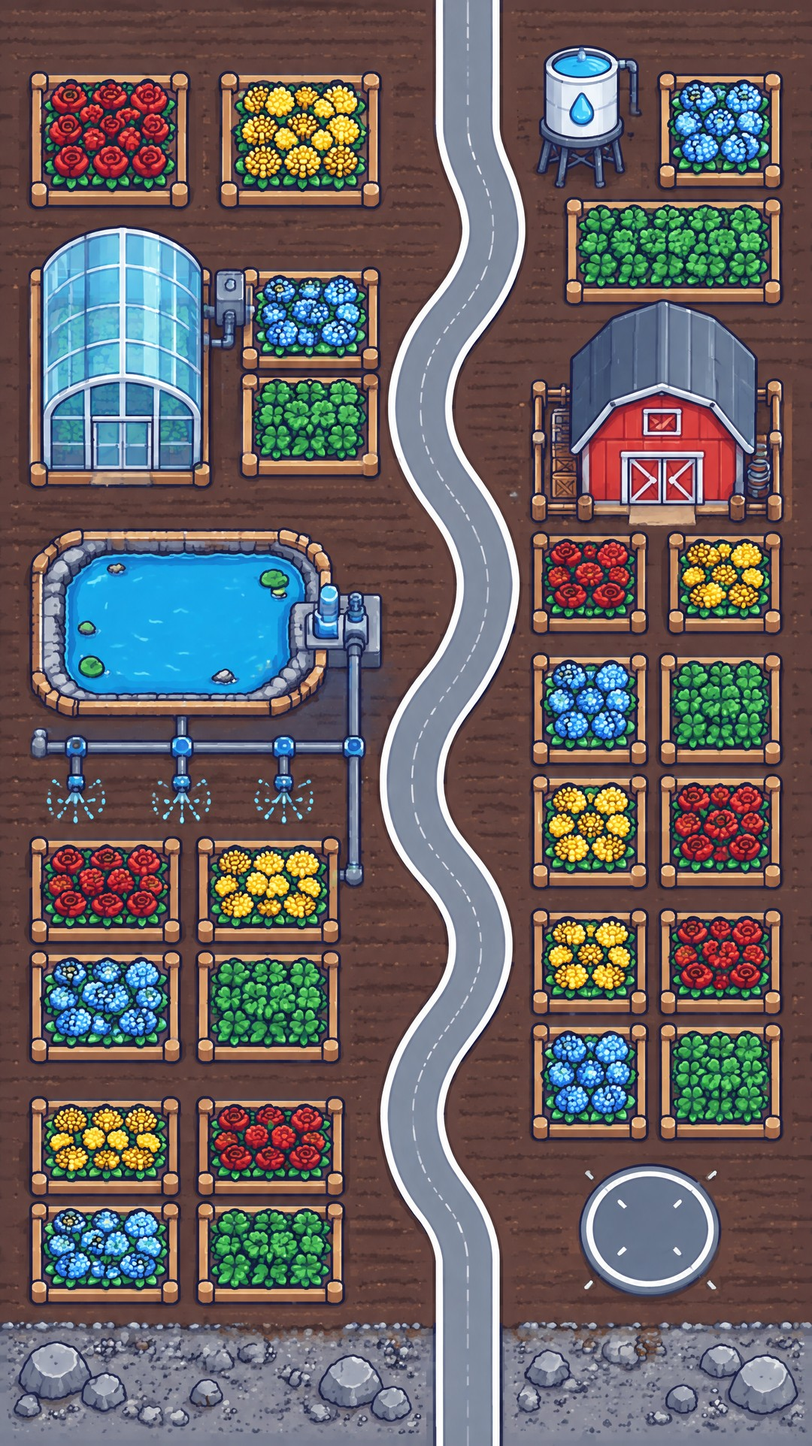
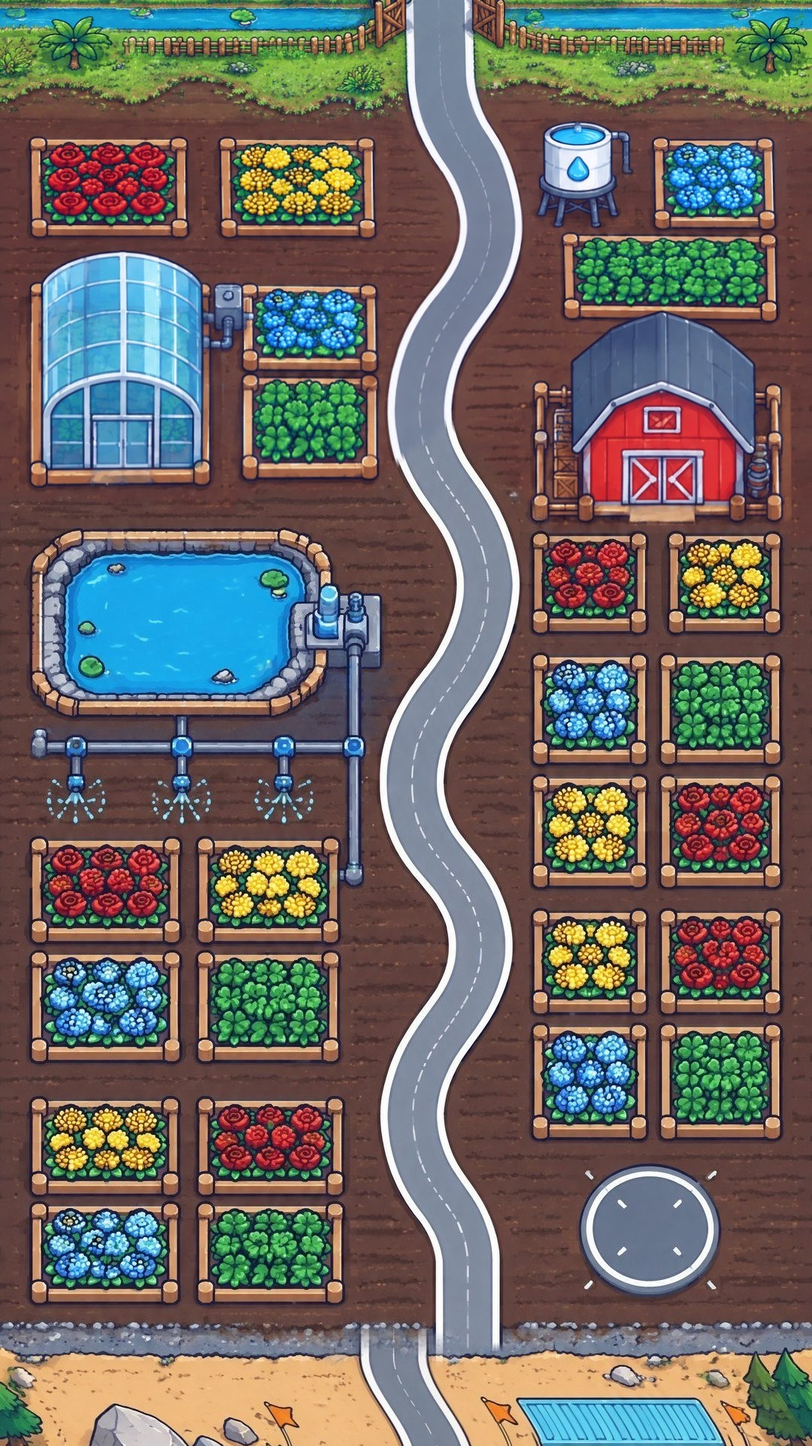
Bản đồ dọc: vá 3 chỗ nối Bãi tái chế → Cảng → Bến sông → Nông trại
- TopView vẽ lại dải chuyển cảnh (hàng rào + chốt gác, cầu qua sông, kênh + cổng nông trại)
- tools/va-cho-noi.py: khớp hình (SIFT affine + luồng trơn), khớp màu, đường cắt tối ưu
- mua-3b / cang / song / 4a cắt lại từ dai-9 cho khớp

diff --git a/phim-clb/tools/va-cho-noi.py b/phim-clb/tools/va-cho-noi.py
@@ -1,0 +1,88 @@
+# Vá chỗ nối giữa hai mùa trên ảnh dài: TopView vẽ lại dải chuyển cảnh (ảnh sinh từ một khung cắt quanh vết nối),
+# đặt dải mới vào lại ảnh dài. Hai mép dải không hoà mờ cả vùng mà cắt theo ĐƯỜNG CẮT TỐI ƯU (như noi-mua.py) ở chỗ
+# ảnh mới giống ảnh cũ nhất, viền mềm vài px; trước đó chỉnh màu ảnh mới cho khớp ảnh cũ (trung bình / độ lệch từng kênh
+# đo ở hai mép giữ nguyên) và kéo ảnh mới cho trùng hình ảnh cũ ở hai mép (SIFT + affine, rồi luồng quang học trơn).
+# python tools/va-cho-noi.py <dài vào.jpg> <dài ra.jpg> <tâm y> <cao khung> <ảnh sinh.png>
+import sys
+import numpy as np
+from PIL import Image, ImageFilter
+
+vao, ra, TAM, CAO, sinh = sys.argv[1], sys.argv[2], int(sys.argv[3]), int(sys.argv[4]), sys.argv[5]
+dai = np.asarray(Image.open(vao).convert('RGB')).astype(np.float32)
+W = dai.shape[1]
+y0 = TAM - CAO // 2
+cu = dai[y0:y0 + CAO].copy()
+moi = np.asarray(Image.open(sinh).convert('RGB').resize((W, CAO), Image.LANCZOS)).astype(np.float32)
+MEP = CAO * 22 // 100                                         # dải cắt tìm trong 0..MEP (trên) và CAO-MEP..CAO (dưới)
+
+# ảnh sinh thường lệch tỉ lệ vài phần trăm (đường lệch 10–100 px ở mép). Bước 2 đo luồng quang học từ ảnh cũ sang ảnh sinh CHỈ ở hai mép
+# giữ nguyên, khớp mỗi mép bằng một mặt bậc hai trơn (bỏ điểm lệch lạ), rồi kéo ảnh sinh theo mặt đó: trọng số 1 ở mép,
+# giảm dần về 0 giữa dải. Mặt trơn nên không kéo nhòe chi tiết (lau sậy, cây) như khi dùng luồng từng điểm.
+import cv2
+xam = lambda a: cv2.cvtColor(np.clip(a, 0, 255).astype(np.uint8), cv2.COLOR_RGB2GRAY)
+gx, gy = np.meshgrid(np.arange(W, dtype=np.float32), np.arange(CAO, dtype=np.float32))
+
+# bước 1 (lệch lớn, tới 100 px): mỗi mép một phép affine từ điểm SIFT khớp (RANSAC), nội suy affine theo hàng giữa hai mép
+sift = cv2.SIFT_create(4000)
+kb, db = sift.detectAndCompute(xam(moi), None)
+def affine(y0, y1):
+    m = np.zeros((CAO, W), np.uint8); m[y0:y1] = 255
+    ka, da = sift.detectAndCompute(xam(cu), m)
+    cap = [p for p, q in cv2.BFMatcher().knnMatch(da, db, k=2) if p.distance < 0.75 * q.distance]
+    A = np.float32([ka[p.queryIdx].pt for p in cap]); B = np.float32([kb[p.trainIdx].pt for p in cap])
+    M, ok = cv2.estimateAffine2D(A, B, ransacReprojThreshold=4, maxIters=5000)
+    print('affine', y0, y1, 'khớp', int(ok.sum()), '/', len(cap), np.round(M, 3).tolist(), file=sys.stderr)
+    return M
+Mt, Md = affine(0, MEP), affine(CAO - MEP, CAO)
+s = np.clip((gy - MEP / 2) / (CAO - MEP), 0, 1); s = s * s * (3 - 2 * s)
+M = Mt[None, None] * (1 - s)[..., None, None] + Md[None, None] * s[..., None, None]
+mx = M[..., 0, 0] * gx + M[..., 0, 1] * gy + M[..., 0, 2]; my = M[..., 1, 0] * gx + M[..., 1, 1] * gy + M[..., 1, 2]
+moi = cv2.remap(moi, mx.astype(np.float32), my.astype(np.float32), cv2.INTER_LINEAR, borderMode=cv2.BORDER_REFLECT)
+
+# bước 2 (lệch nhỏ còn lại)
+luong = cv2.DISOpticalFlow_create(cv2.DISOPTICAL_FLOW_PRESET_MEDIUM).calc(xam(cu), xam(moi), None)
+bac2 = lambda x, y: np.stack([np.ones_like(x), x, y, x * x, x * y, y * y], -1)
+def mat_tron(y0, y1):
+    ys, xs = np.mgrid[y0:y1:8, 0:W:8]
+    f = luong[ys, xs].reshape(-1, 2); A = bac2(xs.ravel() / W, ys.ravel() / CAO)
+    ok = np.ones(len(f), bool)
+    for _ in range(3):                                         # bỏ điểm lệch xa mặt (luồng sai ở chỗ phẳng / khác hình)
+        hs = np.linalg.lstsq(A[ok], f[ok], rcond=None)[0]
+        r = np.abs(A @ hs - f).sum(1); ok = r < max(2.0, 2.5 * np.median(r[ok]))
+    return bac2(gx / W, gy / CAO) @ hs
+yy = np.arange(CAO, dtype=np.float32)[:, None]
+tt = lambda d: 1 - np.clip(d / (CAO * 0.18), 0, 1) ** 2 * (3 - 2 * np.clip(d / (CAO * 0.18), 0, 1))
+wt, wd = tt(np.clip(yy - MEP, 0, None)), tt(np.clip(CAO - MEP - yy, 0, None))   # 1 ở mép trên / dưới → 0 giữa
+keo = mat_tron(0, MEP) * wt[..., None] + mat_tron(CAO - MEP, CAO) * wd[..., None]
+print('kéo mép trên', np.round(keo[MEP // 2, ::W // 4].tolist(), 1).tolist(), 'mép dưới', np.round(keo[CAO - MEP // 2, ::W // 4].tolist(), 1).tolist(), file=sys.stderr)
+moi = cv2.remap(moi, gx + keo[..., 0].astype(np.float32), gy + keo[..., 1].astype(np.float32), cv2.INTER_LINEAR, borderMode=cv2.BORDER_REFLECT)
+
+giu = np.r_[np.arange(MEP), np.arange(CAO - MEP, CAO)]
+for c in range(3):                                            # khớp màu từng kênh theo hai mép giữ nguyên
+    a, b = cu[giu, :, c], moi[giu, :, c]
+    moi[..., c] = (moi[..., c] - b.mean()) * (a.std() / max(b.std(), 1)) + a.mean()
+
+def duong_cat(sai):
+    """Đường cắt ngang ít khác nhất (mỗi cột một hàng, lệch tối đa 1 hàng giữa hai cột kề)."""
+    sai = np.asarray(Image.fromarray(np.clip(sai / 3, 0, 255).astype(np.uint8)).filter(ImageFilter.GaussianBlur(2))).astype(np.float32)
+    sai[:10] += 1e4; sai[-10:] += 1e4
+    tong = sai.copy(); n = sai.shape[0]
+    for x in range(1, W):
+        t = tong[:, x - 1]
+        tong[:, x] += np.minimum(np.minimum(t, np.r_[np.inf, t[:-1]]), np.r_[t[1:], np.inf])
+    hang = np.zeros(W, int); hang[-1] = int(np.argmin(tong[:, -1]))
+    for x in range(W - 2, -1, -1):
+        y = hang[x + 1]; lo, hi = max(0, y - 1), min(n, y + 2)
+        hang[x] = lo + int(np.argmin(tong[lo:hi, x]))
+    return hang
+
+sai = np.abs(cu - moi).sum(-1)
+tren = duong_cat(sai[:MEP])                                   # trên đường này giữ ảnh cũ
+duoi = CAO - MEP + duong_cat(sai[-MEP:])                      # dưới đường này giữ ảnh cũ
+MEM = 8
+yy = np.arange(CAO)[:, None]
+t = np.clip((yy - tren[None] + MEM) / (2 * MEM), 0, 1) * np.clip((duoi[None] - yy + MEM) / (2 * MEM), 0, 1)
+dai[y0:y0 + CAO] = cu * (1 - t[..., None]) + moi * t[..., None]
+print('cắt trên', int(tren.min()), '..', int(tren.max()), 'dưới', int(duoi.min()), '..', int(duoi.max()),
+      'sai trung bình', round(float(sai[tren, np.arange(W)].mean()), 1), round(float(sai[duoi, np.arange(W)].mean()), 1), file=sys.stderr)
+Image.fromarray(np.clip(dai, 0, 255).astype(np.uint8)).save(ra, quality=90)
